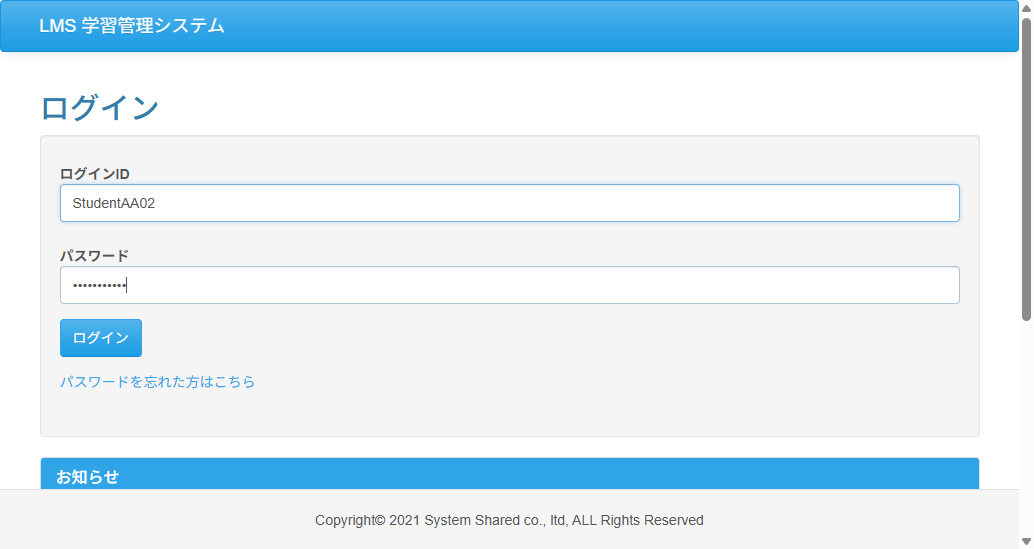
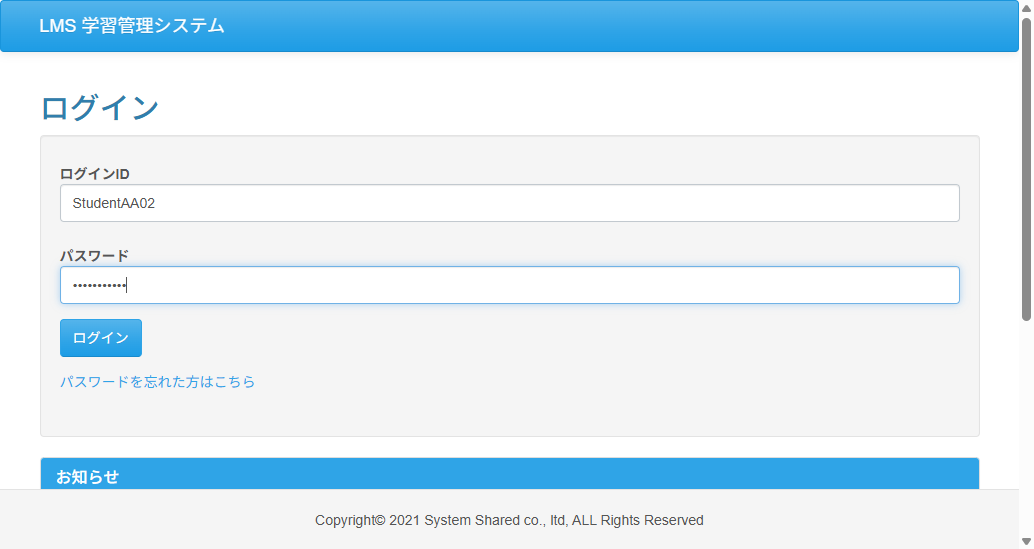
add：渕上 Case08テストメソッド実装
Case08.java：受講生 レポート修正(日報) 正常系に関するテストメソッドの実装
evidence：Case08のエビデンスを格納
RP2_10_結合テスト仕様書_1.1.xls：Case08のテストケースの追加

diff --git a/test_code_creation_name/src/test/java/jp/co/sss/lms/ct/f03_report/Case08.java b/test_code_creation_name/src/test/java/jp/co/sss/lms/ct/f03_report/Case08.java
@@ -1,6 +1,11 @@
 package jp.co.sss.lms.ct.f03_report;
 
 import static jp.co.sss.lms.ct.util.WebDriverUtils.*;
+import static org.assertj.core.api.Assertions.assertThat;
+import static org.junit.Assert.assertTrue;
+import static org.junit.jupiter.api.Assertions.assertEquals;
+
+import java.time.Duration;
 
 import org.junit.jupiter.api.AfterAll;
 import org.junit.jupiter.api.BeforeAll;
@@ -9,6 +14,8 @@ import org.junit.jupiter.api.MethodOrderer.OrderAnnotation;
 import org.junit.jupiter.api.Order;
 import org.junit.jupiter.api.Test;
 import org.junit.jupiter.api.TestMethodOrder;
+import org.openqa.selenium.By;
+import org.openqa.selenium.WebElement;
 
 /**
  * 結合テスト レポート機能
@@ -35,49 +42,160 @@ public class Case08 {
 	@Order(1)
 	@DisplayName("テスト01 トップページURLでアクセス")
 	void test01() {
-		// TODO ここに追加
+
+		// トップページにアクセス
+		goTo("http://localhost:8080/lms");
+
+		// 画面表示の確認
+		assertEquals("ログイン", webDriver.findElement(By.tagName("h2")).getText());
+		assertEquals("", webDriver.findElement(By.name("loginId")).getAttribute("value"));
+		assertEquals("", webDriver.findElement(By.name("password")).getAttribute("value"));
+		assertTrue(webDriver.findElement(By.className("btn-primary")).isEnabled());
+
+		// エビデンスの取得
+		getEvidence(new Object() {
+		});
 	}
 
 	@Test
 	@Order(2)
 	@DisplayName("テスト02 初回ログイン済みの受講生ユーザーでログイン")
 	void test02() {
-		// TODO ここに追加
+
+		// ログインIDの入力
+		final WebElement loginId = webDriver.findElement(By.name("loginId"));
+		loginId.clear();
+		loginId.sendKeys("StudentAA02");
+
+		// パスワードの入力
+		final WebElement password = webDriver.findElement(By.name("password"));
+		password.clear();
+		password.sendKeys("StudentAA02");
+
+		// 入力値が入力されている状態のエビデンスの取得
+		getEvidence(new Object() {
+		}, "before");
+
+		// 「ログイン」ボタンの押下
+		final WebElement button = webDriver.findElement(By.className("btn-primary"));
+		button.click();
+
+		// コース詳細画面の表示確認
+		assertEquals("コース詳細", webDriver.findElement(By.className("active")).getText());
+		assertEquals("ようこそ受講生ＡＡ２さん",
+				webDriver.findElement(By.partialLinkText("受講生ＡＡ２")).getText());
+
+		// 画面遷移後のエビデンスの取得
+		getEvidence(new Object() {
+		}, "after");
 	}
 
 	@Test
 	@Order(3)
 	@DisplayName("テスト03 提出済の研修日の「詳細」ボタンを押下しセクション詳細画面に遷移")
 	void test03() {
-		// TODO ここに追加
+
+		// 「詳細」ボタンをクリック
+		final WebElement button = webDriver.findElement(By.cssSelector("input[value='詳細']"));
+		final WebElement status = webDriver.findElement(By.cssSelector(".w10per span"));
+
+		if ("提出済み".equals(status.getText())) {
+			button.click();
+		}
+
+		// セクション詳細画面の表示確認
+		assertEquals("セクション詳細", webDriver.findElement(By.className("active")).getText());
+		assertTrue(webDriver.findElement(By.cssSelector("input[value='提出済み日報【デモ】を確認する']")).isDisplayed());
+
+		// エビデンスの取得
+		getEvidence(new Object() {
+		});
 	}
 
 	@Test
 	@Order(4)
 	@DisplayName("テスト04 「確認する」ボタンを押下しレポート登録画面に遷移")
 	void test04() {
-		// TODO ここに追加
+
+		// 「提出済み日報を確認する」ボタンをクリック
+		final WebElement button = webDriver.findElement(By.cssSelector("input[value='提出済み日報【デモ】を確認する']"));
+		button.click();
+
+		// レポート登録画面の表示確認
+		assertThat(webDriver.findElement(By.tagName("h2")).getText().contains("日報【デモ】"));
+		assertEquals("テスト用の報告内容。", webDriver.findElement(By.name("contentArray[0]")).getText());
+		assertTrue(webDriver.findElement(By.className("btn-primary")).isDisplayed());
+
+		// エビデンスの取得
+		getEvidence(new Object() {
+		});
 	}
 
 	@Test
 	@Order(5)
 	@DisplayName("テスト05 報告内容を修正して「提出する」ボタンを押下しセクション詳細画面に遷移")
 	void test05() {
-		// TODO ここに追加
+
+		// 報告内容記入欄に値の編集
+		final WebElement textarea = webDriver.findElement(By.name("contentArray[0]"));
+		textarea.clear();
+		textarea.sendKeys("編集後の報告内容。");
+
+		// 入力値が入力されている状態のエビデンスの取得
+		getEvidence(new Object() {
+		}, "before");
+
+		// 「提出する」ボタンをクリック
+		final WebElement button = webDriver.findElement(By.className("btn-primary"));
+		button.click();
+
+		// セクション詳細画面の表示確認
+		webDriver.manage().timeouts().implicitlyWait(Duration.ofSeconds(10));
+		assertEquals("セクション詳細", webDriver.findElement(By.className("active")).getText());
+		assertTrue(webDriver.findElement(By.cssSelector("input[value='提出済み日報【デモ】を確認する']")).isDisplayed());
+
+		// 画面遷移後のエビデンスの取得
+		getEvidence(new Object() {
+		}, "after");
 	}
 
 	@Test
 	@Order(6)
 	@DisplayName("テスト06 上部メニューの「ようこそ○○さん」リンクからユーザー詳細画面に遷移")
 	void test06() {
-		// TODO ここに追加
+
+		// 「ようこそ受講生ＡＡ２さん」リンクをクリック
+		final WebElement namelink = webDriver.findElement(By.linkText("ようこそ受講生ＡＡ２さん"));
+		namelink.click();
+
+		// ユーザー詳細画面の表示確認
+		assertThat(webDriver.findElement(By.tagName("h2")).getText().contains("ユーザー詳細"));
+
+		// エビデンスの取得
+		getEvidence(new Object() {
+		});
 	}
 
 	@Test
 	@Order(7)
 	@DisplayName("テスト07 該当レポートの「詳細」ボタンを押下しレポート詳細画面で修正内容が反映される")
 	void test07() {
-		// TODO ここに追加
+
+		// 画面スクロール
+		scrollTo("200");
+
+		// 「詳細」ボタンをクリック
+		final WebElement button = webDriver.findElement(By.cssSelector("input[value='詳細']"));
+		button.click();
+
+		// レポート登録画面の表示確認
+		assertThat(webDriver.findElement(By.tagName("h2")).getText().contains("日報【デモ】"));
+		assertEquals("編集後の報告内容。",
+				webDriver.findElement(By.xpath("//h3[text()='報告レポート']/following-sibling::table//td")).getText());
+
+		// エビデンスの取得
+		getEvidence(new Object() {
+		});
 	}
 
 }
